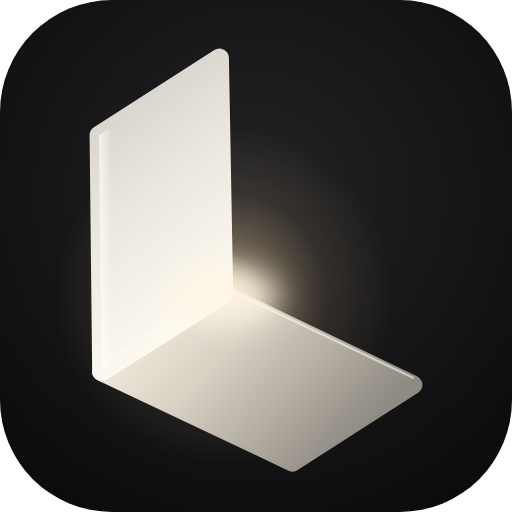
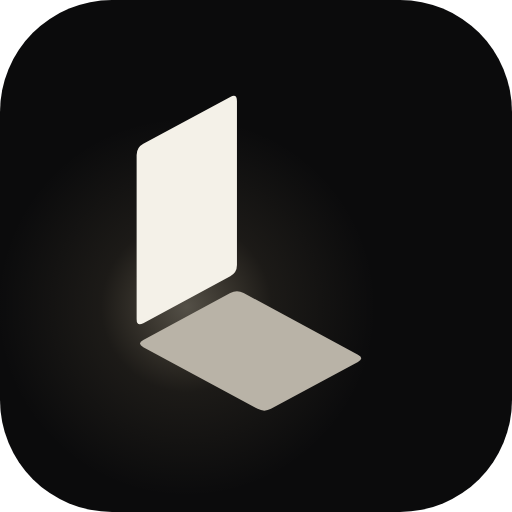
Ship the Lumen identity (Crease) in Canvas; keep the greeting on one line
Owner-approved for release 2026-10-23.

Identity: the Crease wordmark and mark now ship with every Canvas build
through the shared 'on' module. That covers the sidebar and drawer head,
the collapsed bar, the shared header, and the sign-in icon with a rim on
Dark. public-canvas/ now holds the Crease icons, favicon (small-size
drawing), manifest and 22 launch screens, all written by
scripts/brand-crease.mjs, which replaces the folded-L generator
(canvas-icons.mjs, still in history). The preview switch, its QA opt-in
and adapter are removed; the QA review shows the Canvas build as
before. The ordinary rollback build is byte-identical to main.

Greeting: CanvasHome measures the line after layout, on resize and after
the web font loads. When ', name' doesn't fit (long names, narrow
phones, larger text, the longer 'Good afternoon'), only the name steps
aside; the type size is unchanged. welcome.cjs and design.cjs pin the
clock to 15:00 UTC, so CI no longer depends on when it runs. welcome.cjs
also covers 320 px at 9, 15 and 21 h with short and long names and large
text.

Budget: startup JS 6 to 8 KB gz, for the inline identity artwork
(about 1.5 KB) and its component, so the sidebar head draws with the
first frame.

Claude-Session: https://claude.ai/code/session_0173i4z978fjv9yPg1TrHVtN

Changed region(s): [[0.1562, 0.0938, 0.8438, 0.9375]]

diff --git a/vite.config.ts b/vite.config.ts
@@ -46,34 +46,8 @@ function canvasPresentation(): Plugin | false {
   };
 }
 
-/** Crease identity PREVIEW for owner review: LUMEN_IDENTITY=crease (only with LUMEN_CANVAS=1) resolves
- *  src/lib/brand-identity.ts to its "on" module and swaps the Canvas icons, manifest and launch screens for the
- *  proposal's (brand/crease/). Unset leaves every build on the shipped identity; no workflow sets it. */
-function identityPreview(): Plugin | false {
-  const flag = process.env.LUMEN_IDENTITY ?? '';
-  if (!['', 'crease'].includes(flag)) throw new Error(`LUMEN_IDENTITY must be crease or unset, not "${flag}"`);
-  if (!flag) return false;
-  if (process.env.LUMEN_CANVAS !== '1') throw new Error('LUMEN_IDENTITY=crease previews the Canvas presentation; set LUMEN_CANVAS=1 too');
-  const off = resolve('src/lib/brand-identity.ts').replaceAll('\\', '/');
-  const on = resolve('src/lib/brand-identity.on.ts');
-  return {
-    name: 'lumen-identity-preview',
-    enforce: 'pre',
-    async resolveId(source, importer, options) {
-      if (!importer || source.startsWith('\0')) return null;
-      const resolved = await this.resolve(source, importer, { ...options, skipSelf: true });
-      return resolved && resolved.id.split('?')[0].replaceAll('\\', '/') === off ? on : null;
-    },
-  };
-}
-/** Public files the Crease preview replaces: the Canvas file name → the proposal's file. */
-const CREASE_PUBLIC = (file: string) => process.env.LUMEN_IDENTITY !== 'crease' ? file
-  : ({ 'icon.svg': 'brand/crease/svg/app-icon-dark.svg', 'apple-touch-icon.png': 'brand/crease/png/apple-touch-icon.png', 'icon-192.png': 'brand/crease/png/icon-192.png',
-    'icon-512.png': 'brand/crease/png/icon-512.png', 'icon-maskable-512.png': 'brand/crease/png/icon-maskable-512.png', 'manifest.webmanifest': 'brand/crease/manifest.webmanifest' } as Record<string, string>)[relative('public-canvas', file).replaceAll('\\', '/')]
-    ?? file.replace(/^public-canvas[\\/]splash/, 'brand/crease/splash');
-
-/** Canvas build only: replaces public files with their Canvas versions (public-canvas/: the ink mark's icons and
- *  splash screens) and restyles the legal pages in ink and Geist. Runs after serviceWorker(), so the precache list
+/** Canvas build only: replaces public files with their Canvas versions (public-canvas/: the Lumen identity's icons,
+ *  favicon, manifest and launch screens, from scripts/brand-crease.mjs) and restyles the legal pages in ink and Geist. Runs after serviceWorker(), so the precache list
  *  keeps one entry per public file. The ordinary build never loads this plugin. */
 function canvasPublic(): Plugin | false {
   if (process.env.LUMEN_CANVAS !== '1') return false;
@@ -88,13 +62,15 @@ function canvasPublic(): Plugin | false {
         // Light and Dark only: a saved True black opens as Dark.
         .replace("if (s.theme === 'black') { root.dataset.theme = 'dark'; root.dataset.appearance = 'black'; }", "if (s.theme === 'black') root.dataset.theme = 'dark';")
         .replace("black: '#000000' }[s.theme]", "black: '#0d0f12' }[s.theme]")
+        // The Lumen mark's small-size drawing for the browser tab (public-canvas/favicon.svg).
+        .replace('<link rel="icon" href="/icon.svg" type="image/svg+xml" />', '<link rel="icon" href="/favicon.svg" type="image/svg+xml" />')
         .replace('<html ', '<html data-lumen-canvas data-lumen-canvas-foundation ')
         .replace('<div class="app app-skeleton"', '<div class="app app-skeleton" data-lumen-canvas-shell data-lumen-canvas-foundation')
         .replace('<div class="composer sk-composer">', '<div class="composer sk-composer" data-lumen-canvas-foundation data-lumen-canvas-composer>');
     },
     generateBundle(_options, bundle) {
       for (const file of walk('public-canvas')) {
-        this.emitFile({ type: 'asset', fileName: relative('public-canvas', file).replaceAll('\\', '/'), source: readFileSync(CREASE_PUBLIC(file)) });
+        this.emitFile({ type: 'asset', fileName: relative('public-canvas', file).replaceAll('\\', '/'), source: readFileSync(file) });
       }
       const font = Object.keys(bundle).find((f) => /\/geist-latin-wght-normal-[^/]+\.woff2$/.test(f));
       const style = readFileSync('src/pwa/legal-ink.css', 'utf8').replace('__GEIST__', font ? `/${font}` : '');
@@ -107,7 +83,7 @@ function canvasPublic(): Plugin | false {
 }
 
 export default defineConfig({
-  plugins: [react(), canvasPresentation(), identityPreview(), serviceWorker(), canvasPublic()],
+  plugins: [react(), canvasPresentation(), serviceWorker(), canvasPublic()],
   server: {
     host: '0.0.0.0',
     port: 3000,

diff --git a/src/components/ChatView.tsx b/src/components/ChatView.tsx
@@ -16,8 +16,7 @@ import ModelPicker from './ModelPicker';
 import ProjectManager from './ProjectManager';
 import ProjectWorkspace from './ProjectWorkspace';
 import CatalogErrorNotice from './CatalogErrorNotice';
-import { CANVAS_SHELL } from '../lib/canvas-presentation';
-import { BrandMark } from '../lib/brand-identity';
+import { BrandMark, CANVAS_SHELL } from '../lib/canvas-presentation';
 import { ContextRail, RailToggle } from './ContextRail';
 import CanvasHome from './CanvasHome';
 
@@ -196,8 +195,8 @@ export default function ChatView({ onExpandSidebar }: ChatViewProps) {
           <button className="icon-btn menu-btn" onClick={() => setUi({ sidebarOpen: true })} aria-label="Open chats">
             <Menu size={20} />
           </button>
-          {/* Crease preview: the standalone mark leads the bar while the sidebar is collapsed. */}
-          {CANVAS_SHELL && BrandMark ? <><BrandMark height={20} decorative className="cv-collapsed-mark" /><button className="icon-btn expand-sidebar" onClick={onExpandSidebar} aria-label="Expand sidebar" title={`Expand sidebar (${modKey}⇧S)`}><PanelLeftOpen size={20} /></button></> : (
+          {/* Canvas: the standalone Lumen mark leads the bar while the sidebar is collapsed. */}
+          {BrandMark ? <><BrandMark height={20} decorative className="cv-collapsed-mark" /><button className="icon-btn expand-sidebar" onClick={onExpandSidebar} aria-label="Expand sidebar" title={`Expand sidebar (${modKey}⇧S)`}><PanelLeftOpen size={20} /></button></> : (
             <button className="icon-btn expand-sidebar" onClick={onExpandSidebar} aria-label="Expand sidebar" title={`Expand sidebar (${modKey}⇧S)`}>
               <PanelLeftOpen size={20} />
             </button>
@@ -226,8 +225,8 @@ export default function ChatView({ onExpandSidebar }: ChatViewProps) {
         <button className="icon-btn menu-btn" onClick={() => setUi({ sidebarOpen: true })} aria-label="Open chats">
           <Menu size={20} />
         </button>
-        {/* Crease preview: the standalone mark leads the bar while the sidebar is collapsed. */}
-        {CANVAS_SHELL && BrandMark ? <><BrandMark height={20} decorative className="cv-collapsed-mark" /><button className="icon-btn expand-sidebar" onClick={onExpandSidebar} aria-label="Expand sidebar" title={`Expand sidebar (${modKey}⇧S)`}><PanelLeftOpen size={20} /></button></> : (
+        {/* Canvas: the standalone Lumen mark leads the bar while the sidebar is collapsed. */}
+        {BrandMark ? <><BrandMark height={20} decorative className="cv-collapsed-mark" /><button className="icon-btn expand-sidebar" onClick={onExpandSidebar} aria-label="Expand sidebar" title={`Expand sidebar (${modKey}⇧S)`}><PanelLeftOpen size={20} /></button></> : (
           <button className="icon-btn expand-sidebar" onClick={onExpandSidebar} aria-label="Expand sidebar" title={`Expand sidebar (${modKey}⇧S)`}>
             <PanelLeftOpen size={20} />
           </button>

diff --git a/src/lib/brand-crease-art.ts b/src/lib/brand-crease-art.ts
@@ -1,4 +1,4 @@
-// GENERATED by scripts/brand-crease.mjs: the Crease identity proposal's drawings for the app's brand components.
+// GENERATED by scripts/brand-crease.mjs: the Lumen identity's (Crease) drawings for the Canvas brand components.
 // Do not edit by hand; change the numbers in the script and re-run it.
 export type Drawing = { viewBox: string; transform: string; d: [transform: string, d: string][] };
 export const WORDMARK: Drawing = {"viewBox":"0 0 3114 734","transform":"translate(0 722) scale(1 -1)","d":[["","M0 238.6Q0 230.6 7.53 233.31L168.47 291.25Q176 293.96 176 301.96L176 714Q176 722 168.96 718.2L7.04 630.76Q0 626.96 0 618.96Z"],["","M6.8 192.38Q0 196.6 7.53 199.31L168.47 257.25Q176 259.96 182.8 255.74L499.2 59.58Q506 55.36 498.47 52.65L337.53 -5.29Q330 -8 323.2 -3.78Z"],["translate(492 0)","M243.6 -12Q161.5 -12 114.5 41.5Q67.5 95 67.5 190.6V484.37L208.7 535.2V224.5Q208.7 160.5 229.2 130.7Q249.7 101 292.6 101Q341.1 101 367.7 133.7Q394.4 166.4 394.4 230.6V484.37L535.6 535.2V0H406.7L403 151.3L420.7 146.9Q408.9 68.4 363.9 28.2Q318.9 -12 243.6 -12Z"],["translate(1067 0)","M67.5 0V489.3L195 535.2L199.5 405.4L186.5 411.4Q196.5 454.4 219 484.6Q241.5 514.8 273.7 531Q306 547.2 344.4 547.2Q411.8 547.2 453.5 508.4Q495.2 469.6 506.7 403.2L488.6 402.6Q497.7 449.7 520 481.7Q542.2 513.7 575.5 530.5Q608.7 547.2 650.1 547.2Q705.5 547.2 745.6 524Q785.6 500.7 807.4 455.5Q829.2 410.2 829.2 344.1V0H688V305.8Q688 370 667.6 402.1Q647.1 434.2 603 434.2Q574.4 434.2 554.1 418.8Q533.9 403.4 523.1 374.1Q512.2 344.7 512.2 303V0H383.5V303Q383.5 366.7 364.8 400.4Q346 434.2 300 434.2Q271.3 434.2 251.1 418.8Q230.9 403.4 219.8 373.8Q208.7 344.2 208.7 303V0Z"],["translate(1936 0)","M304.7 -12Q223.4 -12 163.5 22.5Q103.5 57 70.6 120.1Q37.8 183.1 37.8 267.6Q37.8 352.1 70.6 414.6Q103.5 477.2 163 512.2Q222.5 547.2 302.8 547.2Q381.1 547.2 439.6 512.6Q498 478 529.9 413.4Q561.7 348.8 561.7 258.8V229.1H184Q187.4 162.8 220.1 130Q252.8 97.1 306.8 97.1Q346.8 97.1 373.5 114.6Q400.3 132.1 411.2 165.8L554.2 157.3Q532.7 78 466.2 33Q399.6 -12 304.7 -12ZM184 318.7H416.7Q413.3 380.1 382.3 410.1Q351.4 440.2 302.8 440.2Q254.2 440.2 222.5 408.6Q190.8 377.1 184 318.7Z"],["translate(2507 0)","M67.5 0V489.3L195 535.2L200.6 381L183.3 386.3Q191.2 444.8 215.9 479.9Q240.7 515.1 277.2 531.2Q313.8 547.2 357.4 547.2Q415.8 547.2 456.3 521.8Q496.8 496.3 518.2 450.8Q539.5 405.3 539.5 344.1V0H398.3V297.8Q398.3 341.6 390.4 371.9Q382.6 402.3 363.5 418.3Q344.5 434.2 311.8 434.2Q263.3 434.2 236 399.1Q208.7 364 208.7 297.8V0Z"]]};

diff --git a/src/styles/canvas-shell.css b/src/styles/canvas-shell.css
@@ -14,7 +14,6 @@
 .app[data-lumen-canvas-shell] .cv-nav button { font-family: var(--canvas-body-font); }
 .app[data-lumen-canvas-shell] .cv-head { display: flex; align-items: center; gap: 6px; padding: 2px 2px 12px 10px; }
 .app[data-lumen-canvas-shell] .cv-brand { display: flex; align-items: center; gap: 9px; flex: 1; min-width: 0; color: var(--canvas-ink); }
-.app[data-lumen-canvas-shell] .cv-wordmark { font: 660 21px/1 var(--canvas-display-font); letter-spacing: -.045em; }
 .app[data-lumen-canvas-shell] .cv-head-btn { display: inline-grid; place-items: center; flex: none; width: 32px; height: 32px; padding: 0; border: 0; border-radius: 10px; background: none; color: var(--canvas-secondary); cursor: pointer; }
 .app[data-lumen-canvas-shell] .cv-head-btn:hover { background: var(--canvas-fill); color: var(--canvas-ink); }
 .app[data-lumen-canvas-shell] .cv-search { display: flex; align-items: center; gap: 8px; height: 38px; margin: 0 0 10px; padding: 0 12px; border: 0; border-radius: 12px; background: var(--canvas-fill); color: var(--canvas-muted); }
@@ -181,7 +180,6 @@
   .app[data-lumen-canvas-shell] { --cv-row: 44px; --cv-gap: 0px; --cv-fs: 15.5px; }
   .app[data-lumen-canvas-shell] .cv-nav { width: min(84vw, 340px); padding: calc(env(safe-area-inset-top) + 12px) 14px max(12px, env(safe-area-inset-bottom)); }
   .app[data-lumen-canvas-shell] .cv-head { min-height: 44px; padding: 4px 0 18px 10px; gap: 10px; }
-  .app[data-lumen-canvas-shell] .cv-wordmark { font-size: 29px; }
   .app[data-lumen-canvas-shell] .cv-head-btn { width: 42px; height: 42px; border-radius: 50%; background: var(--canvas-fill); color: var(--canvas-ink); }
   .app[data-lumen-canvas-shell] .cv-search { height: 44px; margin: -6px 0 14px; border-radius: 14px; }
   .app[data-lumen-canvas-shell] .cv-search input { font-size: 16px; }
@@ -227,7 +225,6 @@
 }
 @media (max-width: 899px) and (max-height: 700px) {
   .app[data-lumen-canvas-shell] .cv-head { padding-bottom: 10px; }
-  .app[data-lumen-canvas-shell] .cv-wordmark { font-size: 26px; }
   .app[data-lumen-canvas-shell] .cv-dest { gap: 2px; padding-bottom: 10px; margin-bottom: 6px; }
   .app[data-lumen-canvas-shell] .cv-dest button { min-height: 46px; font-size: 17.5px; }
   .app[data-lumen-canvas-shell] .cv-new-pill { min-height: 46px; }

diff --git a/src/components/CanvasHome.tsx b/src/components/CanvasHome.tsx
@@ -1,5 +1,6 @@
 // Canvas home (the new-chat screen): a time-aware line and where a new chat will start. Reached only when
 // CANVAS_SHELL is on; the ordinary build keeps its rotating greeting.
+import { useLayoutEffect, useRef } from 'react';
 import { useStore } from '../store';
 
 export default function CanvasHome({ temporary }: { temporary: boolean }) {
@@ -11,10 +12,31 @@ export default function CanvasHome({ temporary }: { temporary: boolean }) {
   const part = hour >= 5 && hour < 12 ? 'Good morning' : hour >= 12 && hour < 18 ? 'Good afternoon' : 'Good evening';
   const name = user?.name?.split(' ')[0].slice(0, 20);
   const project = projects?.find((p) => p.id === activeProjectId) || null;
+  // The greeting stays on one line at every width: when ", name" would not fit (a long name, a narrow phone, a
+  // larger text size, the longer "Good afternoon"), only the name steps aside. Re-checked on resize and once the web
+  // font has loaded, since both change the width.
+  const heading = useRef<HTMLHeadingElement>(null), nameRef = useRef<HTMLSpanElement>(null);
+  useLayoutEffect(() => {
+    const el = heading.current, named = nameRef.current;
+    if (!el || !named) return;
+    let live = true;
+    const box = el.parentElement!;
+    const fit = () => {
+      if (!live) return;
+      named.hidden = false;
+      named.hidden = el.scrollWidth > el.clientWidth + 1 || el.getBoundingClientRect().width > box.clientWidth + 1;
+    };
+    fit();
+    // The parent follows the window (the heading shrinks to its text), so a wider window can bring the name back.
+    const observer = new ResizeObserver(fit);
+    observer.observe(box);
+    void document.fonts?.ready.then(fit);
+    return () => { live = false; observer.disconnect(); };
+  }, [part, name, temporary]);
   if (temporary) return <h1>Incognito chat</h1>;
   return (
     <div className="cv-home">
-      <h1>{part}{name ? `, ${name}` : ''}</h1>
+      <h1 ref={heading}>{part}{name && <span ref={nameRef}>, {name}</span>}</h1>
       {project
         ? <p className="cv-home-where">New chat in <strong dir="auto">{project.name}</strong> <button type="button" onClick={() => selectProject(null)}>Start outside it</button></p>
         : <p className="cv-home-where">Ask anything.</p>}

diff --git a/vite.qa.config.ts b/vite.qa.config.ts
@@ -9,7 +9,6 @@
 //   • the real Firebase, sync, service-worker and Firebase-configuration modules can never load.
 
 import { fileURLToPath } from 'node:url';
-import { existsSync, readFileSync } from 'node:fs';
 import { resolve } from 'node:path';
 import { defineConfig, type Plugin } from 'vite';
 import react from '@vitejs/plugin-react';
@@ -24,12 +23,6 @@ export const QA_REPLACEMENTS: Record<string, string> = {
   // CP02: the Canvas composer presentation is on in the review build only.
   [at('src/lib/canvas-presentation.ts')]: at('qa/iphone/adapters/canvas-presentation.ts'),
 };
-// Crease identity preview (owner review): only when the review opts in with the committed file
-// qa/iphone/review-identity.json; without it the review shows the shipped identity too.
-const REVIEW_IDENTITY = at('qa/iphone/review-identity.json');
-const QA_IDENTITY: string = existsSync(REVIEW_IDENTITY) ? JSON.parse(readFileSync(REVIEW_IDENTITY, 'utf8')).identity ?? '' : '';
-if (!['', 'crease'].includes(QA_IDENTITY)) throw new Error(`qa/iphone/review-identity.json: identity must be "crease", not "${QA_IDENTITY}"`);
-if (QA_IDENTITY === 'crease') QA_REPLACEMENTS[at('src/lib/brand-identity.ts')] = at('qa/iphone/adapters/brand-identity.ts');
 const SDK_STUB = at('qa/iphone/adapters/firebase-sdk.ts');
 const SDK_ENTRIES = new Set(['firebase/app', 'firebase/auth', 'firebase/firestore']);
 const TRANSPORT = at('qa/iphone/adapters/transport.ts');

diff --git a/src/lib/canvas-presentation.on.ts b/src/lib/canvas-presentation.on.ts
@@ -1,13 +1,17 @@
 // The Canvas presentation, on. Builds select this module in place of canvas-presentation.ts: production when
 // LUMEN_CANVAS=1 (vite.config.ts), and the synthetic QA review build always (vite.qa.config.ts, through its adapter),
-// so both run the same switch. Loads the Canvas tokens and styles; the Routing Center stays a lazy chunk.
+// so both run the same switch. Loads the Canvas tokens and styles; the Routing Center stays a lazy chunk; the
+// Lumen identity's brand components (Crease) ship with it.
 import '../styles/canvas.css';
 import '../styles/canvas-composer.css';
 import '../styles/canvas-shell.css';
 import '../styles/canvas-routing.css';
 import '../styles/canvas-screens.css';
+import '../styles/brand-crease.css';
 import { lazy } from 'react';
 
 export const CANVAS_COMPOSER = true;
 export const CANVAS_SHELL = true;
 export const RoutingCenter = lazy(() => import('../components/RoutingCenter'));
+export type { BrandArtProps } from './canvas-presentation';
+export { BrandMark, BrandWordmark } from '../components/BrandCrease';

diff --git a/src/lib/canvas-presentation.ts b/src/lib/canvas-presentation.ts
@@ -8,8 +8,13 @@
  *   CANVAS_SHELL    — CP03: unified Projects/conversations navigation, header breadcrumb and reading layout.
  *   RoutingCenter   — CP04: the lazily loaded Canvas Routing Center (src/components/RoutingCenter.tsx). The loader
  *                     lives only in the "on" module, so the ordinary build has no import of it at all.
+ *   BrandWordmark,  — the Lumen identity (Crease, approved 2026-10-23; src/components/BrandCrease.tsx): the
+ *   BrandMark         integrated wordmark and the standalone mark. Null here, so the ordinary build imports no artwork.
  */
 import type { ComponentType } from 'react';
+export type BrandArtProps = { height: number; decorative?: boolean; className?: string };
 export const CANVAS_COMPOSER = false;
 export const CANVAS_SHELL = false;
 export const RoutingCenter: ComponentType | null = null;
+export const BrandWordmark: ComponentType<BrandArtProps> | null = null;
+export const BrandMark: ComponentType<BrandArtProps> | null = null;

diff --git a/src/components/BrandCrease.tsx b/src/components/BrandCrease.tsx
@@ -1,7 +1,8 @@
 import { MARK, WORDMARK, WORDMARK_SMALL, type Drawing } from '../lib/brand-crease-art';
-import type { BrandArtProps } from '../lib/brand-identity';
+import type { BrandArtProps } from '../lib/canvas-presentation';
 
-// The Crease identity preview's brand placements. Imported only by src/lib/brand-identity.on.ts, so only the preview build carries it. Drawn in currentColor, so they follow
+// The Lumen identity (Crease, approved 2026-10-23) in the Canvas presentation's brand placements. Imported only by
+// src/lib/canvas-presentation.on.ts, so the ordinary build carries none of it. Drawn in currentColor, so they follow
 // the theme. Labelled "Lumen" unless `decorative`, for a placement whose control already carries the name.
 function Art({ art, height, decorative, className }: { art: Drawing; height: number; decorative?: boolean; className?: string }) {
   const [, , w, h] = art.viewBox.split(' ').map(Number);

diff --git a/src/styles/brand-crease.css b/src/styles/brand-crease.css
@@ -1,5 +1,6 @@
-/* Crease identity preview (owner review): brand placements only. Loaded through src/lib/brand-identity.on.ts, so no
- * other build carries it. The drawings use currentColor and inherit ink or paper from the theme. */
+/* The Lumen identity (Crease) in the Canvas presentation: brand placements only. Loaded through
+ * src/lib/canvas-presentation.on.ts, so the ordinary build never carries it. The drawings use currentColor and inherit
+ * ink or paper from the theme. */
 
 /* Sidebar and drawer head: the integrated wordmark sits on the head's centre line, optically nudged so its
    baseline (not its box) lines up with the collapse button. */

diff --git a/src/components/SidebarCanvas.tsx b/src/components/SidebarCanvas.tsx
@@ -15,7 +15,7 @@ import type { Chat, Project } from '../types';
 import AllChats from './AllChats';
 import ProjectManager from './ProjectManager';
 import { AskChats, ChatRow, type SidebarProps } from './Sidebar';
-import { BrandWordmark } from '../lib/brand-identity';
+import { BrandWordmark } from '../lib/canvas-presentation';
 
 const EMPTY_PROJECTS: Project[] = [];
 const LIMIT = 5;

diff --git a/src/components/SharedChatPage.tsx b/src/components/SharedChatPage.tsx
@@ -1,7 +1,7 @@
 import { useEffect, useState } from 'react';
 import { FileText, Loader2 } from 'lucide-react';
 import Logo from './Logo';
-import { BrandWordmark } from '../lib/brand-identity';
+import { BrandWordmark } from '../lib/canvas-presentation';
 import { readShare, type SharedChat } from '../lib/share';
 import { segments } from '../lib/markdown';
 
